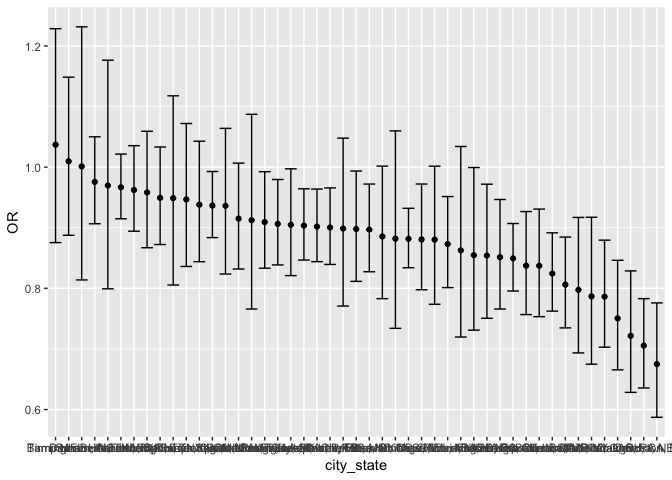
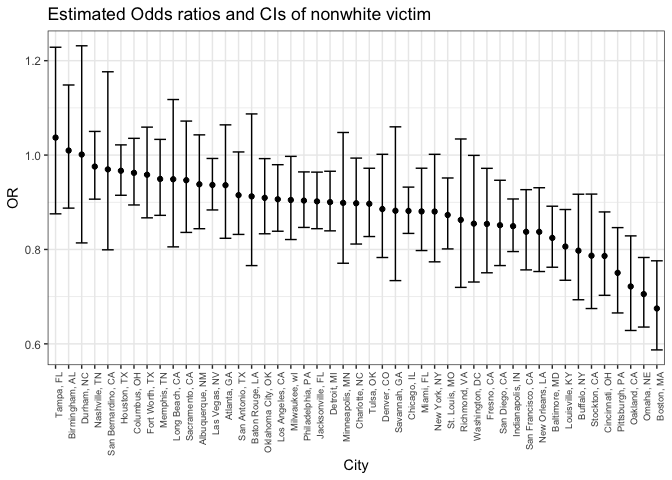
final

diff --git a/p8105_hw6_hy2580.md b/p8105_hw6_hy2580.md
@@ -1,0 +1,327 @@
+p8105\_hw6\_hy2580
+================
+haokun yuan
+11/19/2018
+
+### Problem 1
+
+The Washington Post has gathered data on homicides in 50 large U.S. cities and made the data available through a GitHub repository here. You can read their accompanying article here.
+
+Create a city\_state variable (e.g. “Baltimore, MD”), and a binary variable indicating whether the homicide is solved. Omit cities Dallas, TX; Phoenix, AZ; and Kansas City, MO – these don’t report victim race. Also omit Tulsa, AL – this is a data entry mistake. Modifiy victim\_race to have categories white and non-white, with white as the reference category. Be sure that victim\_age is numeric.
+
+``` r
+homicide_data = read_csv("./data/homicide-data.csv") %>% 
+  janitor::clean_names() %>% 
+  mutate(city_state = paste(city, state, sep = ", ")) %>% 
+  filter(city_state != "Dallas, TX" & city_state != "Phoenix, AZ" & city_state != "Kansas City, MO" & city_state != "Tulsa, AL") %>% 
+  mutate(victim_race = ifelse(victim_race == "White", "white", "non_white"),
+         victim_race = fct_relevel(victim_race, "white"),
+         victim_age = as.numeric(victim_age),
+         resolved = as.numeric(disposition == "Closed by arrest"),
+         unresolved = as.numeric(disposition != "Closed by arrest")) %>%
+  filter(victim_age != "NA")
+```
+
+    ## Warning in evalq(as.numeric(victim_age), <environment>): NAs introduced by
+    ## coercion
+
+For the city of Baltimore, MD, use the glm function to fit a logistic regression with resolved vs unresolved as the outcome and victim age, sex and race (as just defined) as predictors. Save the output of glm as an R object; apply the broom::tidy to this object; and obtain the estimate and confidence interval of the adjusted odds ratio for solving homicides comparing black victims to white victims keeping all other variables fixed.
+
+``` r
+baltimore_df = homicide_data %>% 
+  filter(city_state == "Baltimore, MD") %>% 
+  select(resolved, victim_age, victim_race, victim_sex)
+
+fit_logistic = baltimore_df %>% 
+  glm(resolved ~ victim_age + victim_race + victim_sex, data = ., family = binomial())
+
+baltimore_fit = fit_logistic %>% 
+  broom::tidy() %>% 
+  mutate(OR = exp(estimate)) %>%
+  select(term, log_OR = estimate, OR, p.value) %>% 
+  filter(term == "victim_racenon_white")
+
+CI = exp(confint(fit_logistic)) %>% broom::tidy() %>% 
+  rename(term = .rownames, conf_low = X2.5.., conf_high = X97.5..)
+```
+
+    ## Warning: 'tidy.matrix' is deprecated.
+    ## See help("Deprecated")
+
+``` r
+left_join(baltimore_fit, CI)
+```
+
+    ## # A tibble: 1 x 6
+    ##   term                 log_OR    OR    p.value conf_low conf_high
+    ##   <chr>                 <dbl> <dbl>      <dbl>    <dbl>     <dbl>
+    ## 1 victim_racenon_white -0.820 0.441 0.00000268    0.312     0.620
+
+Now run glm for each of the cities in your dataset, and extract the adjusted odds ratio (and CI) for solving homicides comparing black victims to white victims. Do this within a “tidy” pipeline, making use of purrr::map, list columns, and unnest as necessary to create a dataframe with estimated ORs and CIs for each city.
+
+``` r
+city_fit = homicide_data %>% 
+  select(city_state, resolved, victim_age, victim_race, victim_sex) %>% 
+  group_by(city_state) %>% 
+  nest() %>% 
+  mutate(models = map(data, ~glm(resolved ~ victim_age + victim_race + victim_sex, data =.x)),
+         parameter = map(models,broom::tidy),
+         parameter2 = map(models, confint),
+         parameter3 = map(parameter2, broom::tidy),
+         parameter4 = map2(parameter3,parameter, ~merge.data.frame(x=.x, y=.y, by.x = ".rownames", by.y = "term"))) %>%
+  select(-parameter,-parameter2,-parameter3) %>% 
+  unnest(parameter4) %>%
+  mutate(conf_low = X2.5.., conf_high = X97.5..) %>% 
+  mutate(OR = exp(estimate),
+         conf_low = exp(conf_low),
+         conf_high = exp(conf_high),
+         term = .rownames
+         ) %>% 
+  select(city_state, term, OR, conf_low, conf_high) %>% 
+  filter(term == "victim_racenon_white")
+
+city_fit
+```
+
+    ## # A tibble: 47 x 5
+    ##    city_state      term                    OR conf_low conf_high
+    ##    <chr>           <chr>                <dbl>    <dbl>     <dbl>
+    ##  1 Albuquerque, NM victim_racenon_white 0.938    0.844     1.04 
+    ##  2 Atlanta, GA     victim_racenon_white 0.936    0.824     1.06 
+    ##  3 Baltimore, MD   victim_racenon_white 0.824    0.762     0.892
+    ##  4 Baton Rouge, LA victim_racenon_white 0.912    0.766     1.09 
+    ##  5 Birmingham, AL  victim_racenon_white 1.01     0.888     1.15 
+    ##  6 Boston, MA      victim_racenon_white 0.675    0.587     0.776
+    ##  7 Buffalo, NY     victim_racenon_white 0.797    0.693     0.917
+    ##  8 Charlotte, NC   victim_racenon_white 0.898    0.812     0.994
+    ##  9 Chicago, IL     victim_racenon_white 0.882    0.834     0.932
+    ## 10 Cincinnati, OH  victim_racenon_white 0.786    0.703     0.880
+    ## # ... with 37 more rows
+
+Create a plot that shows the estimated ORs and CIs for each city. Organize cities according to estimated OR, and comment on the plot.
+
+``` r
+city_fit %>% 
+  mutate(city_state = fct_reorder(city_state, desc(OR))) %>% 
+  ggplot(aes(city_state, OR)) +
+  geom_point() +
+  geom_errorbar(aes(ymin = conf_low, ymax = conf_high)) + 
+  theme_bw() +
+  theme(axis.text.x = element_text(angle = 90, hjust = 1, size = rel(0.8))) + 
+  labs(
+      x = "City",
+      y = "OR",
+      title = "Estimated Odds ratios and CIs of nonwhite victim"
+    )
+```
+
+![](p8105_hw6_hy2580_files/figure-markdown_github/unnamed-chunk-4-1.png)
+
+### Problem 2
+
+Propose a regression model for birthweight. This model may be based on a hypothesized structure for the factors that underly birthweight, on a data-driven model-building process, or a combination of the two. Describe your modeling process and show a plot of model residuals against fitted values – use add\_predictions and add\_residuals in making this plot.
+
+``` r
+birthweight = read_csv("./data/birthweight.csv") 
+#removed collinearlity
+proposed_data = birthweight %>% 
+  select(-pnumlbw, -pnumsga, -ppbmi)
+#use stepwise method to select variable
+step(lm(bwt ~ .,proposed_data),direction = "both")
+```
+
+    ## Start:  AIC=48808.15
+    ## bwt ~ babysex + bhead + blength + delwt + fincome + frace + gaweeks + 
+    ##     malform + menarche + mheight + momage + mrace + parity + 
+    ##     ppwt + smoken + wtgain
+    ## 
+    ## 
+    ## Step:  AIC=48808.15
+    ## bwt ~ babysex + bhead + blength + delwt + fincome + frace + gaweeks + 
+    ##     malform + menarche + mheight + momage + mrace + parity + 
+    ##     ppwt + smoken
+    ## 
+    ##            Df Sum of Sq       RSS   AIC
+    ## - malform   1      3033 328375200 48806
+    ## - frace     1     33825 328405992 48807
+    ## <none>                  328372167 48808
+    ## - menarche  1    161091 328533258 48808
+    ## - parity    1    366498 328738665 48811
+    ## - momage    1    632022 329004189 48815
+    ## - mheight   1    675684 329047851 48815
+    ## - fincome   1   1030291 329402457 48820
+    ## - babysex   1   1086908 329459074 48820
+    ## - mrace     1   1778610 330150776 48830
+    ## - smoken    1   3105969 331478135 48847
+    ## - ppwt      1   3179601 331551767 48848
+    ## - gaweeks   1   5018627 333390793 48872
+    ## - delwt     1   7474996 335847163 48904
+    ## - blength   1 106590460 434962626 50027
+    ## - bhead     1 113972011 442344178 50100
+    ## 
+    ## Step:  AIC=48806.19
+    ## bwt ~ babysex + bhead + blength + delwt + fincome + frace + gaweeks + 
+    ##     menarche + mheight + momage + mrace + parity + ppwt + smoken
+    ## 
+    ##            Df Sum of Sq       RSS   AIC
+    ## - frace     1     33987 328409187 48805
+    ## <none>                  328375200 48806
+    ## - menarche  1    161625 328536825 48806
+    ## + malform   1      3033 328372167 48808
+    ## - parity    1    366217 328741417 48809
+    ## - momage    1    634318 329009517 48813
+    ## - mheight   1    674643 329049842 48813
+    ## - fincome   1   1028426 329403626 48818
+    ## - babysex   1   1085480 329460680 48819
+    ## - mrace     1   1780124 330155324 48828
+    ## - smoken    1   3103025 331478225 48845
+    ## - ppwt      1   3188216 331563416 48846
+    ## - gaweeks   1   5016626 333391826 48870
+    ## - delwt     1   7493191 335868391 48902
+    ## - blength   1 106598488 434973688 50025
+    ## - bhead     1 113989429 442364629 50098
+    ## 
+    ## Step:  AIC=48804.64
+    ## bwt ~ babysex + bhead + blength + delwt + fincome + gaweeks + 
+    ##     menarche + mheight + momage + mrace + parity + ppwt + smoken
+    ## 
+    ##            Df Sum of Sq       RSS   AIC
+    ## <none>                  328409187 48805
+    ## - menarche  1    165498 328574685 48805
+    ## + frace     1     33987 328375200 48806
+    ## + malform   1      3194 328405992 48807
+    ## - parity    1    366935 328776121 48807
+    ## - momage    1    637125 329046311 48811
+    ## - mheight   1    683740 329092927 48812
+    ## - fincome   1   1050875 329460062 48817
+    ## - babysex   1   1085276 329494463 48817
+    ## - smoken    1   3092717 331501903 48843
+    ## - ppwt      1   3192334 331601520 48845
+    ## - gaweeks   1   5019197 333428383 48868
+    ## - mrace     1   5999337 334408523 48881
+    ## - delwt     1   7480901 335890088 48900
+    ## - blength   1 106612808 435021995 50023
+    ## - bhead     1 114005059 442414245 50096
+
+    ## 
+    ## Call:
+    ## lm(formula = bwt ~ babysex + bhead + blength + delwt + fincome + 
+    ##     gaweeks + menarche + mheight + momage + mrace + parity + 
+    ##     ppwt + smoken, data = proposed_data)
+    ## 
+    ## Coefficients:
+    ## (Intercept)      babysex        bhead      blength        delwt  
+    ##  -6246.3672      32.3171     134.4298      76.3760       3.9564  
+    ##     fincome      gaweeks     menarche      mheight       momage  
+    ##      0.6597      12.0396      -4.3140       5.4408       3.4549  
+    ##       mrace       parity         ppwt       smoken  
+    ##    -53.4990      89.9677      -2.8323      -3.7116
+
+``` r
+reg_proposed = lm(bwt ~ .,proposed_data)
+
+summary(reg_proposed)
+```
+
+    ## 
+    ## Call:
+    ## lm(formula = bwt ~ ., data = proposed_data)
+    ## 
+    ## Residuals:
+    ##      Min       1Q   Median       3Q      Max 
+    ## -1081.31  -184.16    -4.25   174.24  2425.21 
+    ## 
+    ## Coefficients: (1 not defined because of singularities)
+    ##               Estimate Std. Error t value Pr(>|t|)    
+    ## (Intercept) -6243.9731   143.2612 -43.585  < 2e-16 ***
+    ## babysex        32.3448     8.5477   3.784 0.000156 ***
+    ## bhead         134.4157     3.4689  38.749  < 2e-16 ***
+    ## blength        76.3777     2.0382  37.473  < 2e-16 ***
+    ## delwt           3.9574     0.3988   9.924  < 2e-16 ***
+    ## fincome         0.6542     0.1776   3.684 0.000232 ***
+    ## frace          -5.8716     8.7957  -0.668 0.504459    
+    ## gaweeks        12.0396     1.4807   8.131 5.50e-16 ***
+    ## malform        14.2747    71.4088   0.200 0.841567    
+    ## menarche       -4.2578     2.9227  -1.457 0.145248    
+    ## mheight         5.4112     1.8137   2.984 0.002865 ** 
+    ## momage          3.4420     1.1929   2.886 0.003927 ** 
+    ## mrace         -48.1766     9.9526  -4.841 1.34e-06 ***
+    ## parity         89.9155    40.9203   2.197 0.028049 *  
+    ## ppwt           -2.8279     0.4369  -6.472 1.07e-10 ***
+    ## smoken         -3.7214     0.5818  -6.397 1.76e-10 ***
+    ## wtgain              NA         NA      NA       NA    
+    ## ---
+    ## Signif. codes:  0 '***' 0.001 '**' 0.01 '*' 0.05 '.' 0.1 ' ' 1
+    ## 
+    ## Residual standard error: 275.5 on 4326 degrees of freedom
+    ## Multiple R-squared:  0.7116, Adjusted R-squared:  0.7106 
+    ## F-statistic: 711.6 on 15 and 4326 DF,  p-value: < 2.2e-16
+
+``` r
+proposed_data %>% 
+  modelr::add_residuals(reg_proposed) %>% 
+  modelr::add_predictions(reg_proposed) %>% 
+  ggplot(aes(pred,resid)) + 
+  geom_point(alpha = 0.5) +
+  labs(
+      x = "Fitted Value",
+      y = "Residual",
+      title = "Residual VS. Fitted Value"
+  )
+```
+
+    ## Warning in predict.lm(model, data): prediction from a rank-deficient fit
+    ## may be misleading
+
+    ## Warning in predict.lm(model, data): prediction from a rank-deficient fit
+    ## may be misleading
+
+![](p8105_hw6_hy2580_files/figure-markdown_github/unnamed-chunk-5-1.png)
+
+I first check the collinearlity, and removed the variables that I found to have high collinearlity (&gt;70%), and then used stepwise function select variable. The residual vs. fit plot showed that the regression may not be linear, a tranformation is probability needed.
+
+Compare your model to two others:
+
+One using length at birth and gestational age as predictors (main effects only)
+
+``` r
+reg_1 = lm(bwt~blength+gaweeks, birthweight)
+```
+
+One using head circumference, length, sex, and all interactions (including the three-way interaction) between these
+
+``` r
+reg_2 = lm(bwt ~ blength + gaweeks + babysex + blength*gaweeks+blength*gaweeks*babysex + blength*gaweeks*babysex + blength*babysex, birthweight) 
+```
+
+Make this comparison in terms of the cross-validated prediction error; use crossv\_mc and functions in purrr as appropriate.
+
+``` r
+cv_df = crossv_mc(birthweight, 100) %>% 
+  mutate(train = map(train, as_tibble),
+         test = map(test, as_tibble))
+cv_df = 
+  cv_df %>% 
+  mutate(proposed_mod = map(train, ~ reg_proposed),
+         mod_1 = map(train, ~reg_1),
+         mod_2 = map(train, ~ reg_2)) %>% 
+  mutate(rmse_proposed    = map2_dbl(proposed_mod, test, ~rmse(model = .x, data = .y)),
+         rmse_1 = map2_dbl(mod_1, test, ~rmse(model = .x, data = .y)),
+         rmse_2 = map2_dbl(mod_2, test, ~rmse(model = .x, data = .y)))
+
+cv_df %>% 
+  select(starts_with("rmse")) %>% 
+  gather(key = model, value = rmse) %>% 
+  mutate(model = str_replace(model, "rmse_", ""),
+         model = fct_inorder(model)) %>% 
+  ggplot(aes(x = model, y = rmse)) + 
+  geom_violin() +
+  labs(x = "Model",
+       y = "RMSE",
+       title = "RMSE for three models"
+    )
+```
+
+![](p8105_hw6_hy2580_files/figure-markdown_github/unnamed-chunk-8-1.png)
+
+The rmse for model1 and model 2 is lower than that of the proposed model which indicate proposed model is a better fit.
